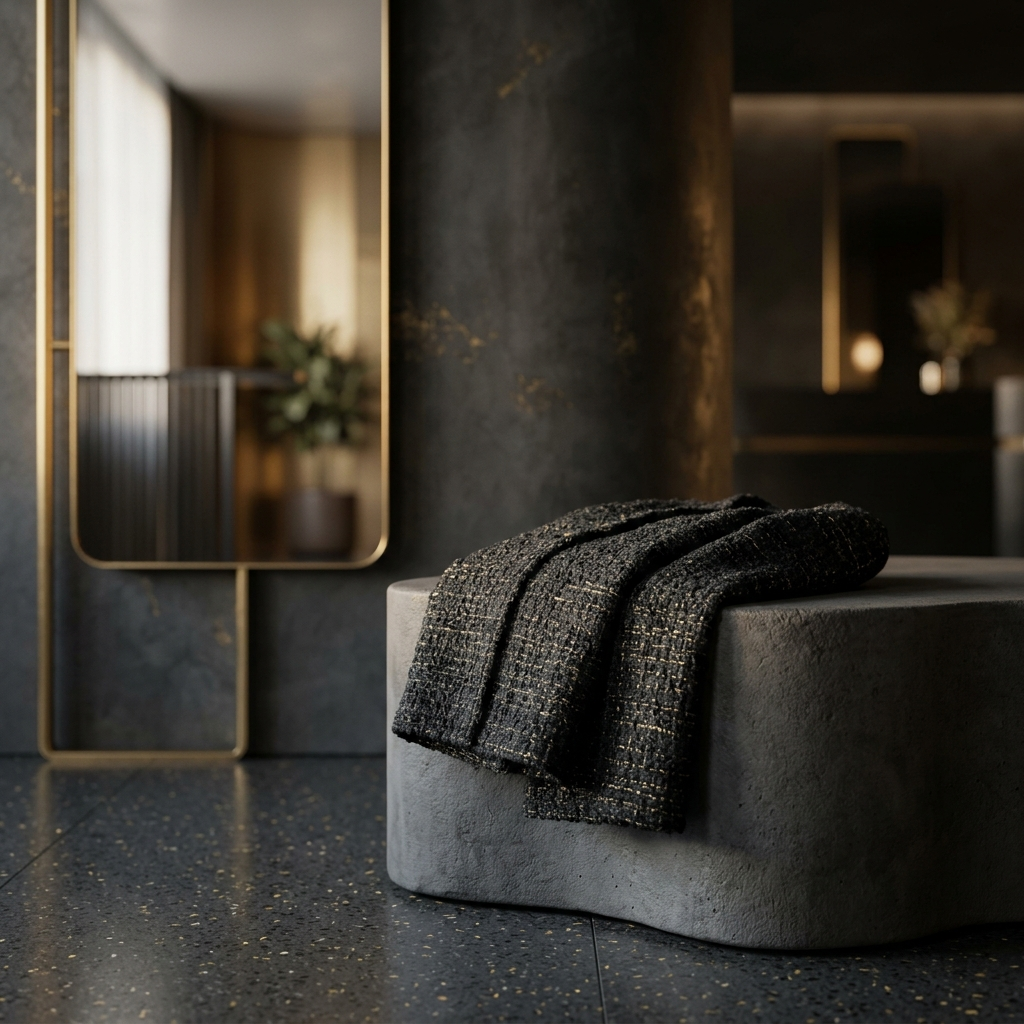
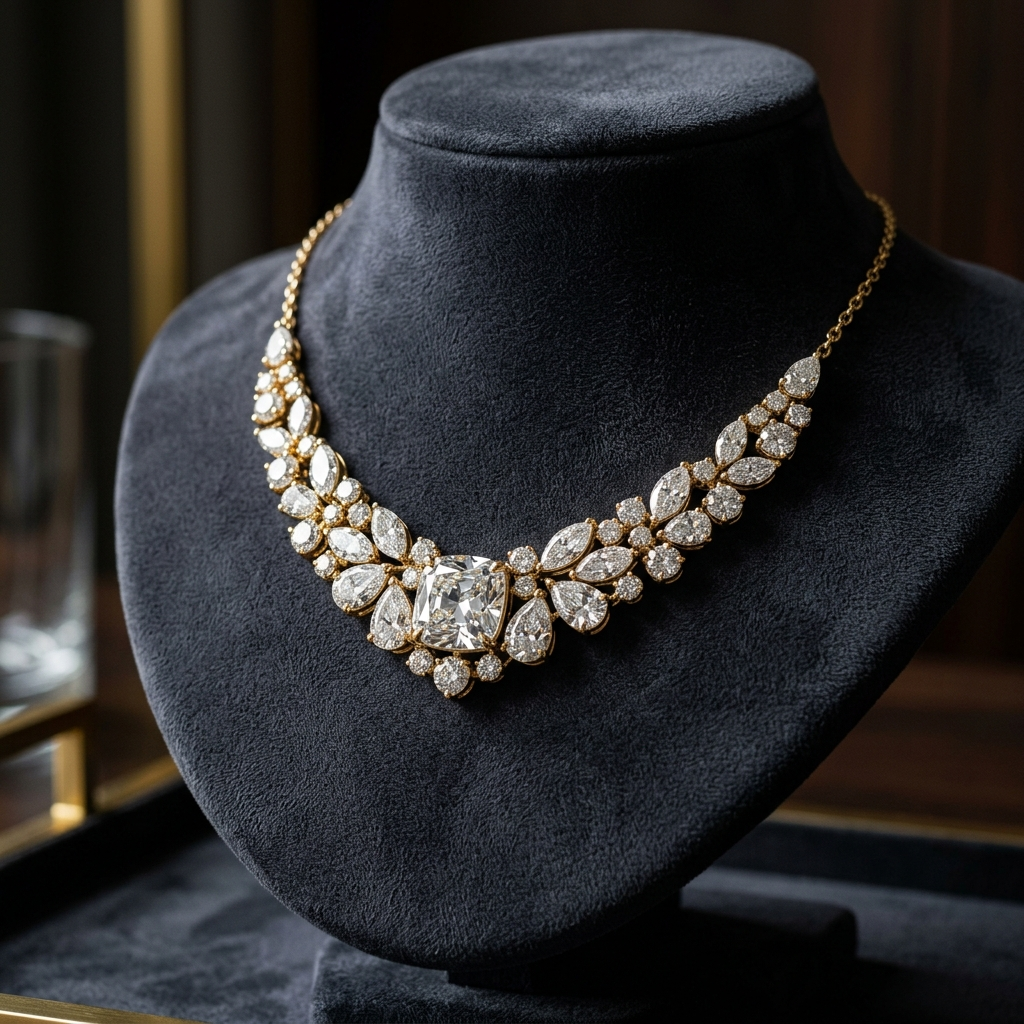
style: reduce button sizes and update exclusive jewelry image

diff --git a/client/src/pages/Home.jsx b/client/src/pages/Home.jsx
@@ -27,7 +27,7 @@ const Home = () => {
         <div style={{ textAlign: 'center', zIndex: 2, position: 'absolute', bottom: '15%' }}>
           <h1 style={{ fontSize: '3.5rem', marginBottom: '1.5rem', color: '#fff', fontWeight: 400, letterSpacing: '0.05em', textShadow: '0 2px 10px rgba(0,0,0,0.5)' }}>The New Standard</h1>
           <Link to="/collection">
-            <button className="btn-primary" style={{ backgroundColor: '#fff', color: '#000' }}>Discover More</button>
+            <button className="btn-primary" style={{ backgroundColor: '#fff', color: '#000', padding: '0.75rem 2rem', fontSize: '0.9rem', letterSpacing: '0.1em' }}>Discover More</button>
           </Link>
         </div>
       </section>
@@ -75,15 +75,15 @@ const Home = () => {
             <div style={{ position: 'absolute', top: 0, left: 0, right: 0, bottom: 0, backgroundColor: 'rgba(0,0,0,0.2)', transition: 'background-color 0.4s ease' }} onMouseOver={e => e.currentTarget.style.backgroundColor = 'rgba(0,0,0,0.1)'} onMouseOut={e => e.currentTarget.style.backgroundColor = 'rgba(0,0,0,0.2)'}></div>
             <div style={{ 
               zIndex: 1, 
-              backgroundColor: 'rgba(255, 255, 255, 0.9)', 
-              backdropFilter: 'blur(10px)',
-              padding: '2.5rem 5rem', 
+              backgroundColor: 'rgba(255, 255, 255, 0.85)', 
+              backdropFilter: 'blur(12px)',
+              padding: '1.5rem 3rem', 
               textAlign: 'center',
-              border: '1px solid rgba(255,255,255,0.3)',
-              boxShadow: '0 15px 35px rgba(0,0,0,0.1)'
+              border: '1px solid rgba(255,255,255,0.4)',
+              boxShadow: '0 10px 25px rgba(0,0,0,0.05)'
             }}>
-              <span style={{ color: '#000', letterSpacing: '0.25em', fontSize: '1.5rem', textTransform: 'uppercase', fontWeight: 300 }}>Exclusive Release</span>
-              <div style={{ width: '40px', height: '1px', backgroundColor: '#000', margin: '1rem auto 0', transition: 'width 0.4s ease' }}></div>
+              <span style={{ color: '#000', letterSpacing: '0.2em', fontSize: '1.1rem', textTransform: 'uppercase', fontWeight: 300 }}>Exclusive Jewelry Release</span>
+              <div style={{ width: '30px', height: '1px', backgroundColor: '#000', margin: '0.75rem auto 0', transition: 'width 0.4s ease' }}></div>
             </div>
           </div>
         </div>
